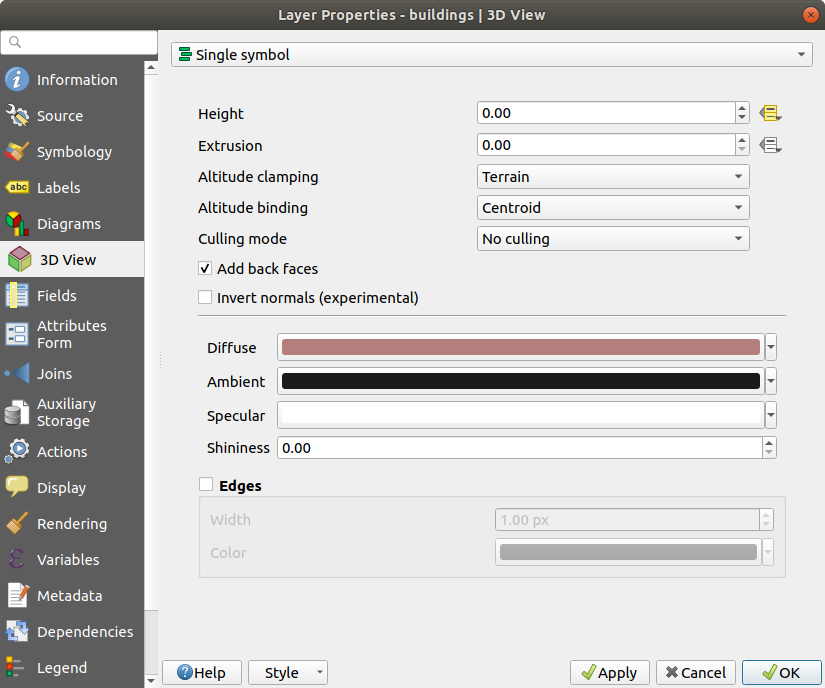
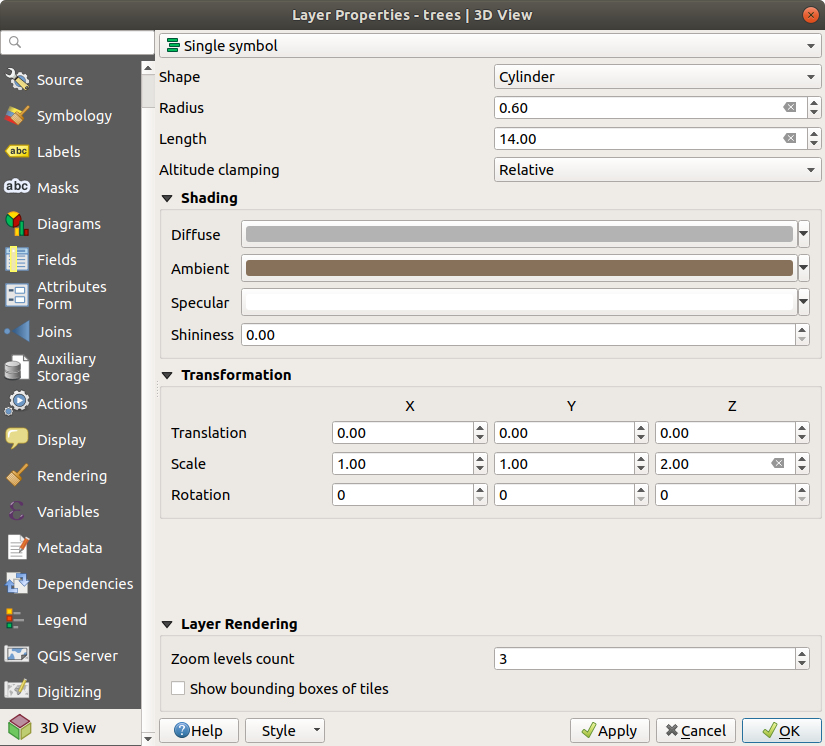
Explain the layer rendering options in 3D tab
and update screenshot accordingly

diff --git a/docs/user_manual/working_with_vector/vector_properties.rst b/docs/user_manual/working_with_vector/vector_properties.rst
@@ -1899,6 +1899,17 @@ See :ref:`data_defined_labeling` for more information.
 |3d| The :guilabel:`3D View` tab provides settings for vector layers that should
 be depicted in the :ref:`3D Map view <label_3dmapview>` tool.
 
+For better performance, data from vector layers are loaded in the background,
+using multithreading, and rendered in tiles whose size can be controlled from
+the :guilabel:`Layer rendering` section of the tab:
+
+* :guilabel:`Zoom levels count`: determines how deep the quadtree will be.
+  For example, one zoom level means there will be a single tile for the whole layer.
+  Three zoom levels means there will be 16 tiles at the leaf level (every extra
+  zoom level multiplies that by 4). The default is ``3`` and the maximum is ``8``.
+* |checkbox| :guilabel:`Show bounding boxes of tiles`: especially useful if
+  there are issues with tiles not showing up when they should
+
 To display a layer in 3D, select from the combobox at the top of the tab, either:
 
 * :guilabel:`Single symbol`: features are rendered using a common symbol whose
@@ -1915,7 +1926,7 @@ rendering.
 .. figure:: img/3d_view_properties.png
    :align: center
 
-   3D properties of a polygon layer
+   3D properties of a point layer
 
 Point Layers
 ------------
@@ -1939,7 +1950,6 @@ Point Layers
 * :guilabel:`Translation` can be used to move objects in x, y and z axis.
 * You can define a :guilabel:`Scale factor` for the 3D shape as well as a
   :guilabel:`Rotation` around the x-, y- and z-axis.
-
 
 Line layers
 -----------
